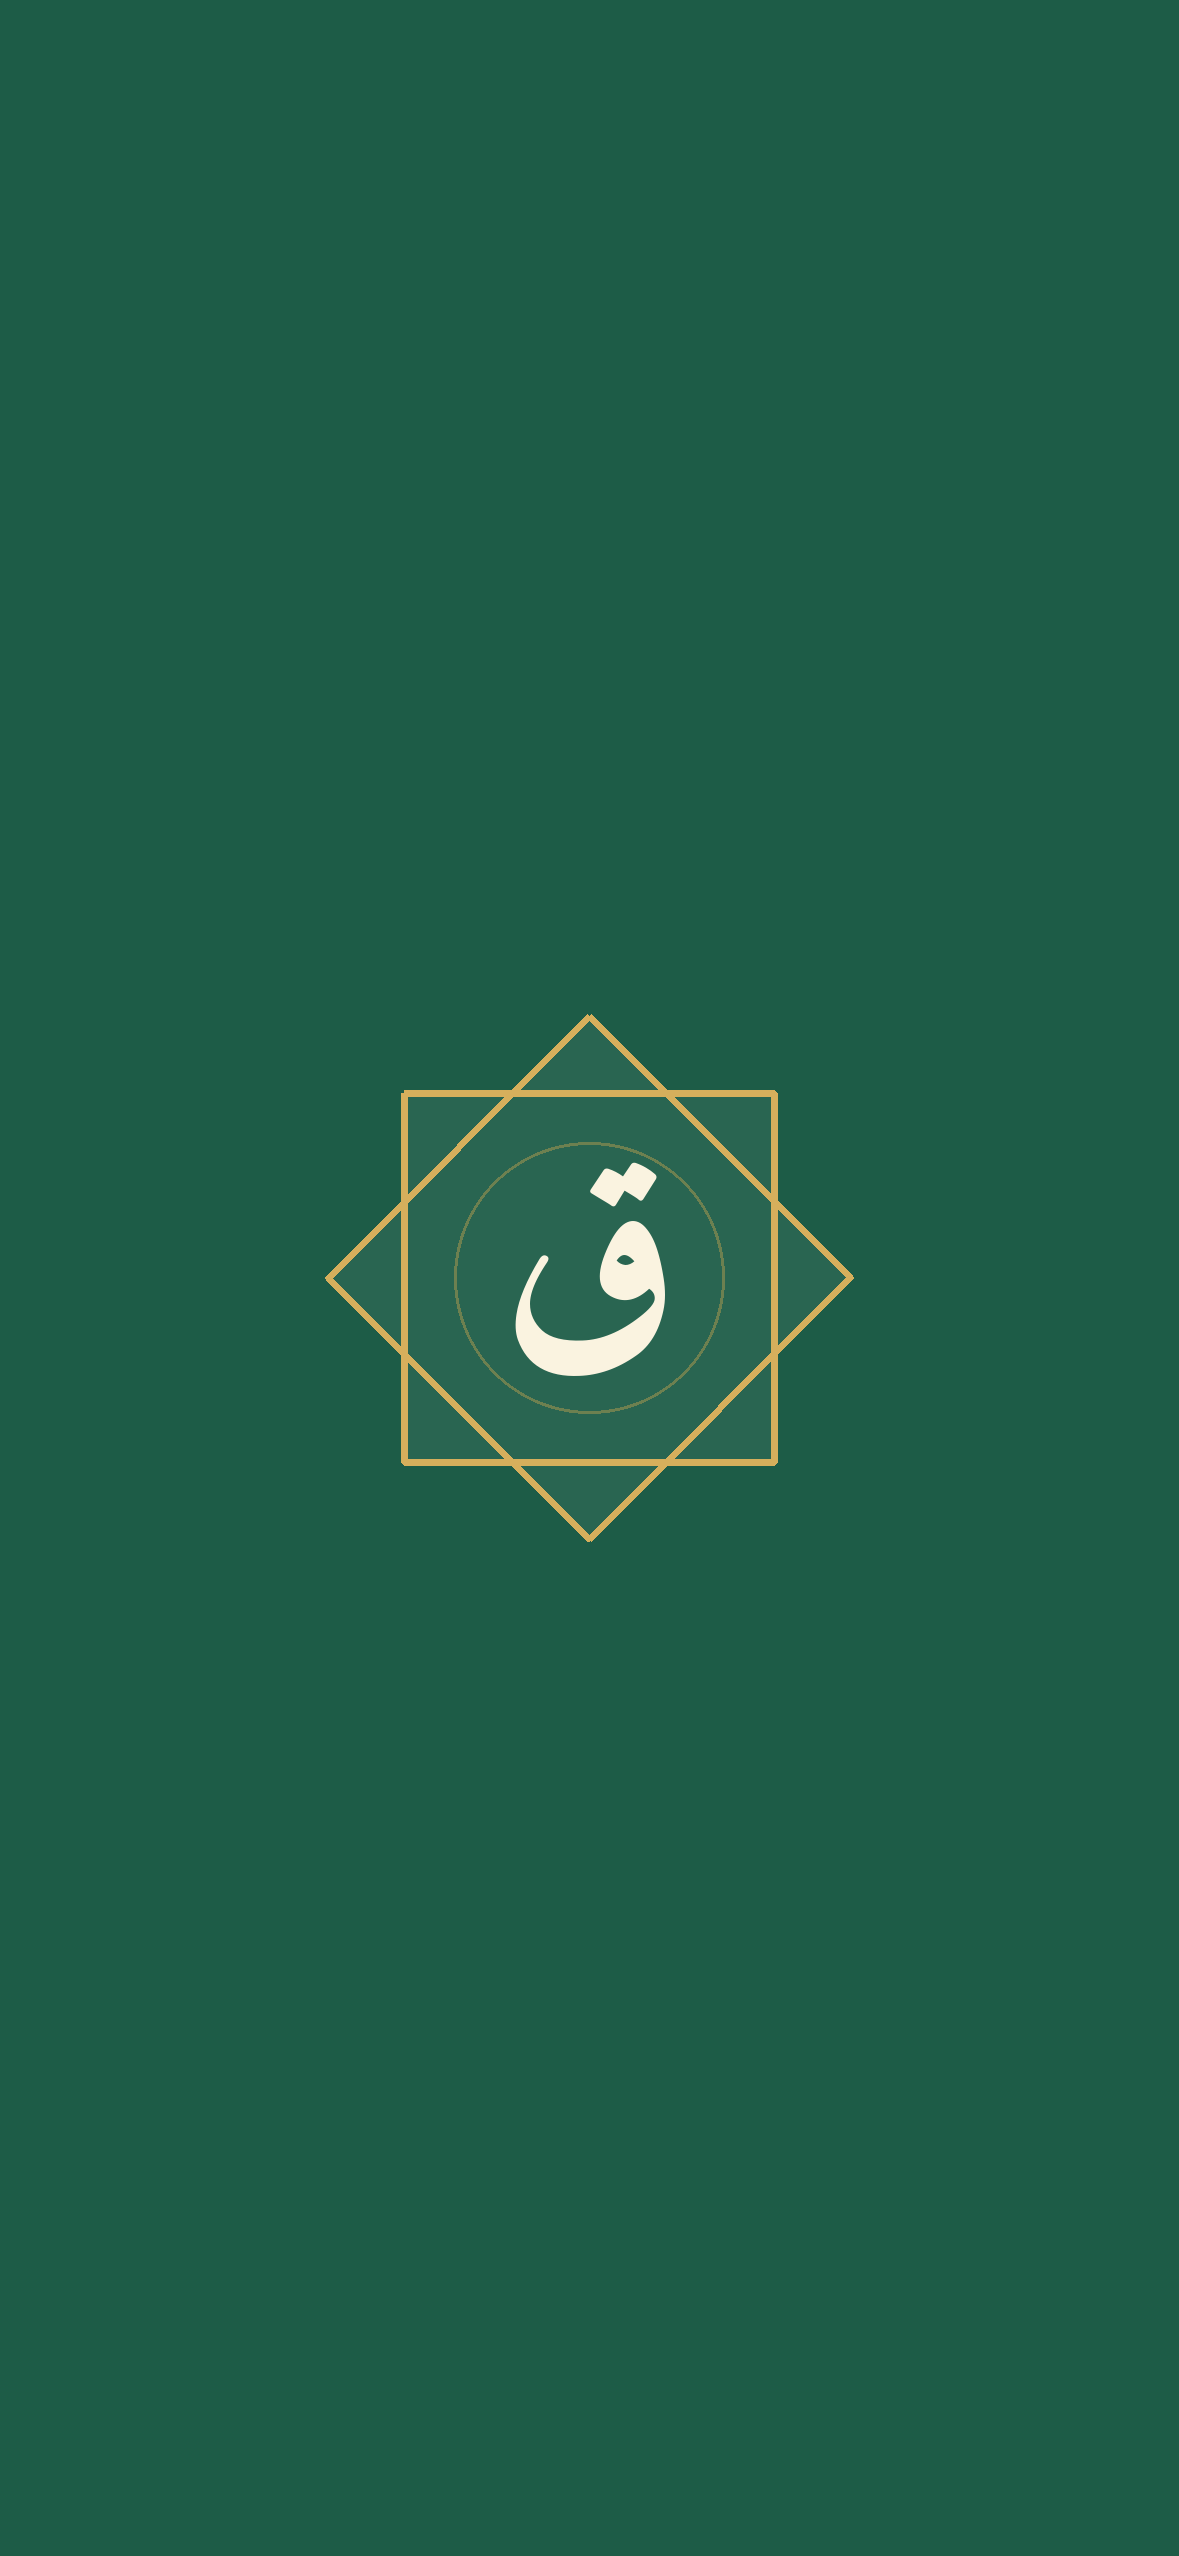
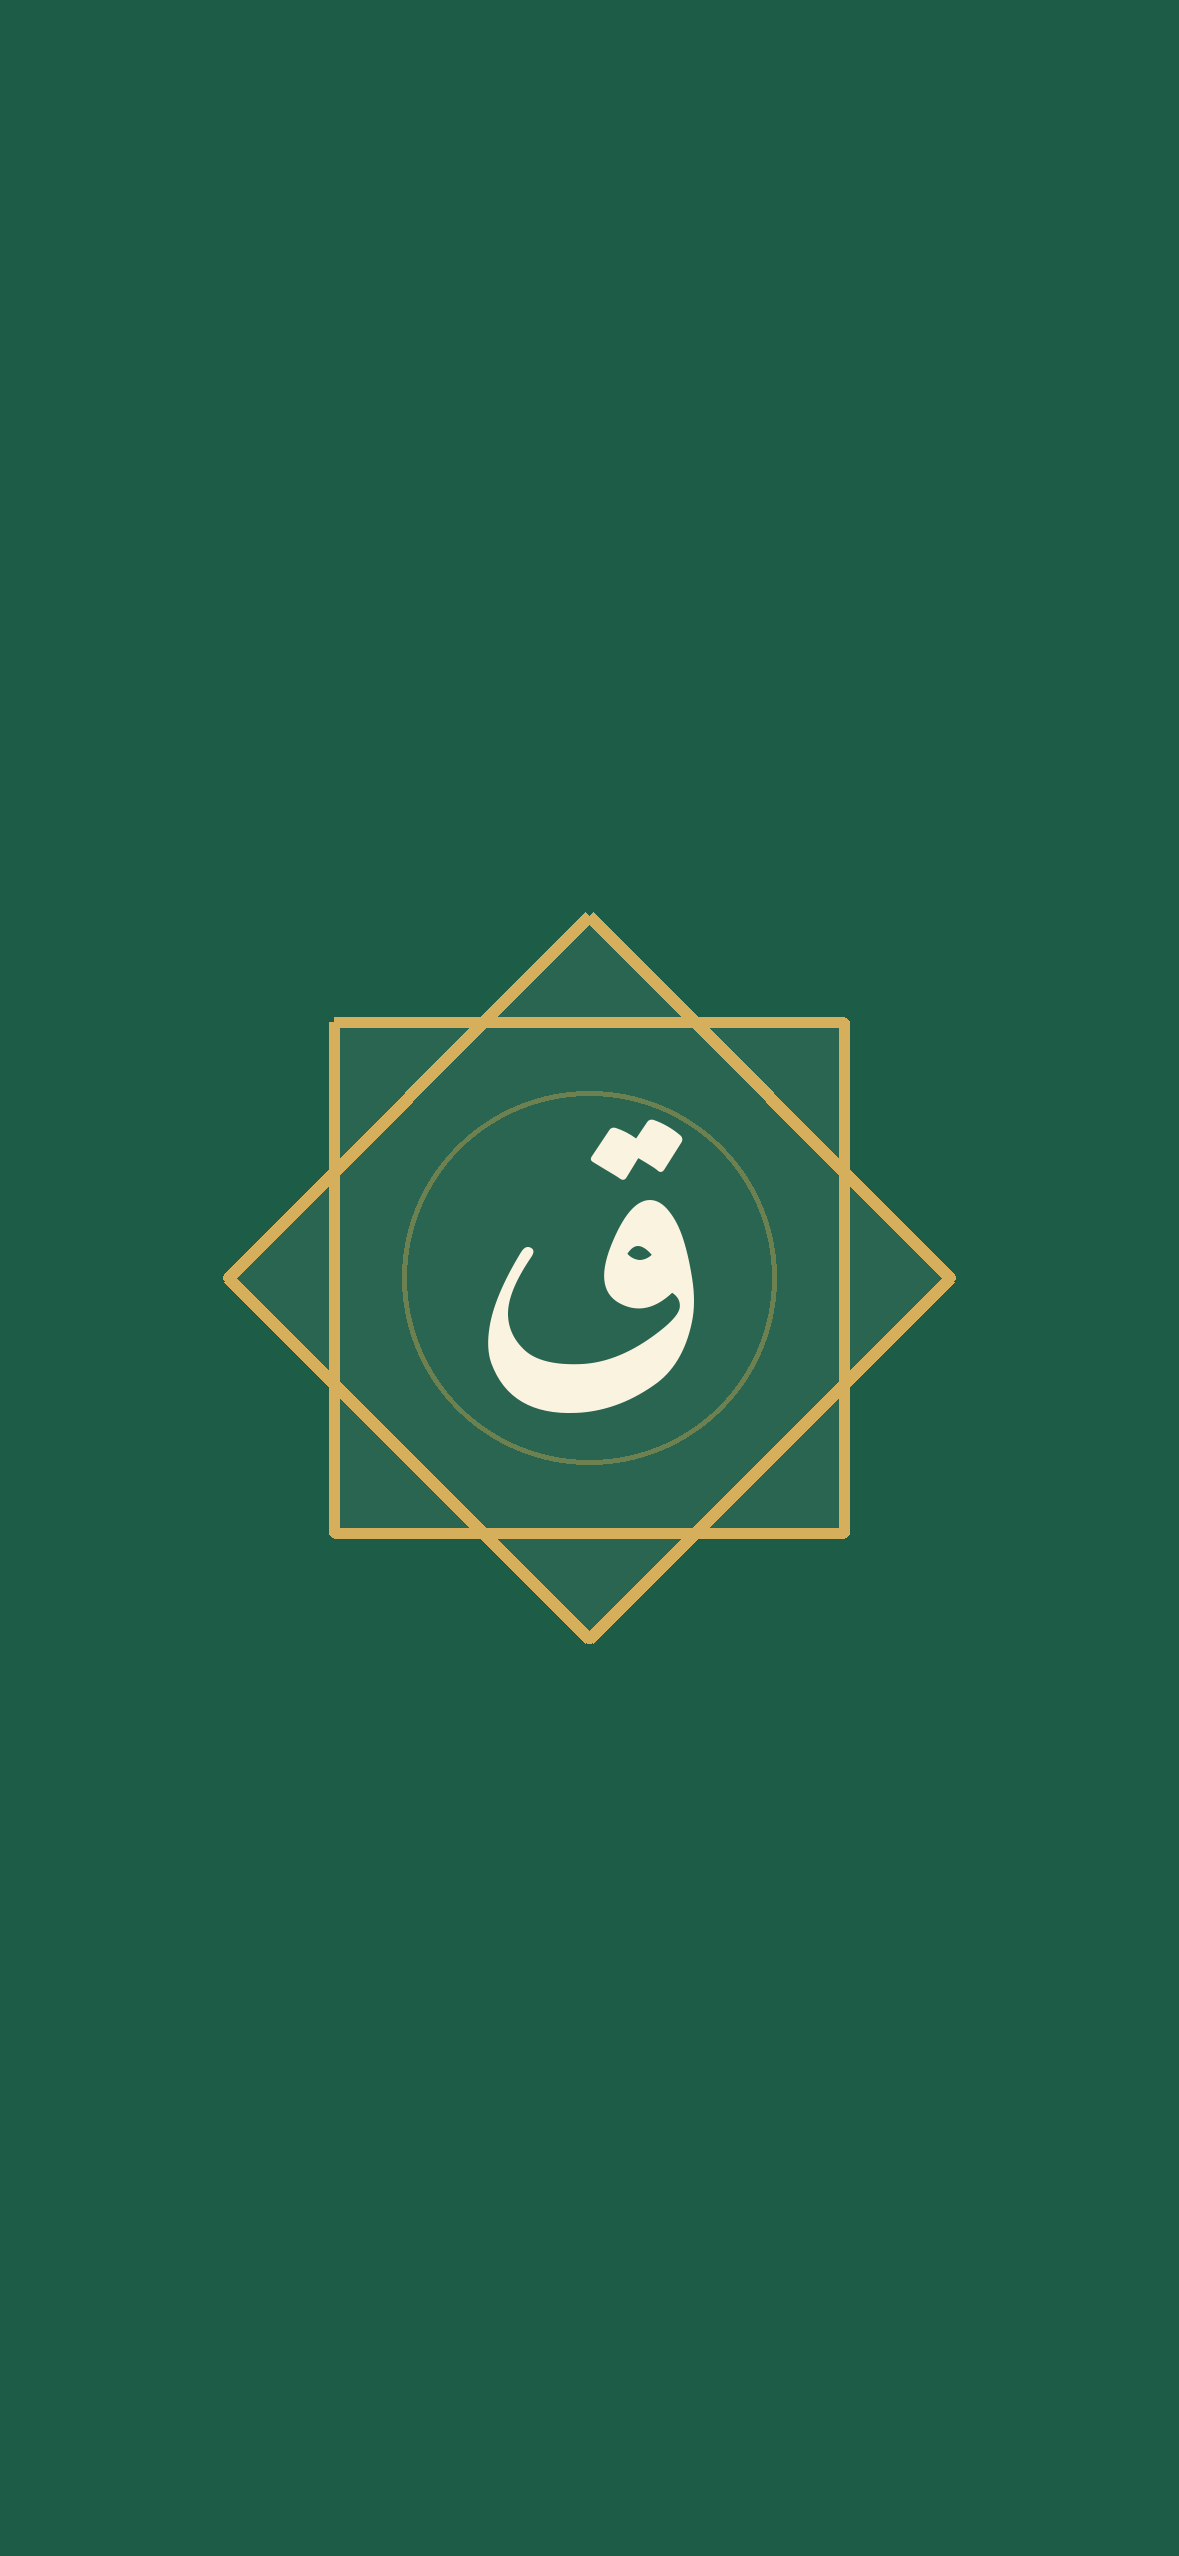
Enchaîne l'écran de démarrage et l'ouverture sans saut
- Icône sur fond vert uni, identique à l'écran de démarrage (plus de forme foncée autour)
- Logo de l'ouverture à la taille de l'icône du démarrage Android ; écrans iPhone alignés

Changed region(s): [[0.1832, 0.34, 0.8244, 0.6491]]

diff --git a/src/app/globals.css b/src/app/globals.css
@@ -3542,9 +3542,9 @@ html[data-ouverture] .ouverture {
   background: #1d5c47;
   animation: ouverture-fondu 0.32s ease-in 0.95s forwards;
 }
-/* Même taille que l'image de l'écran de démarrage : l'enchaînement est invisible. */
 .ouverture-logo {
-  width: min(56vw, 260px);
+  /* Même taille que l'icône de l'écran de démarrage d'Android (étoile ≈ 240 px). */
+  width: min(304px, 82vw);
   height: auto;
   overflow: visible;
   animation: ouverture-envol 0.45s cubic-bezier(0.4, 0, 0.2, 1) 0.85s forwards;
